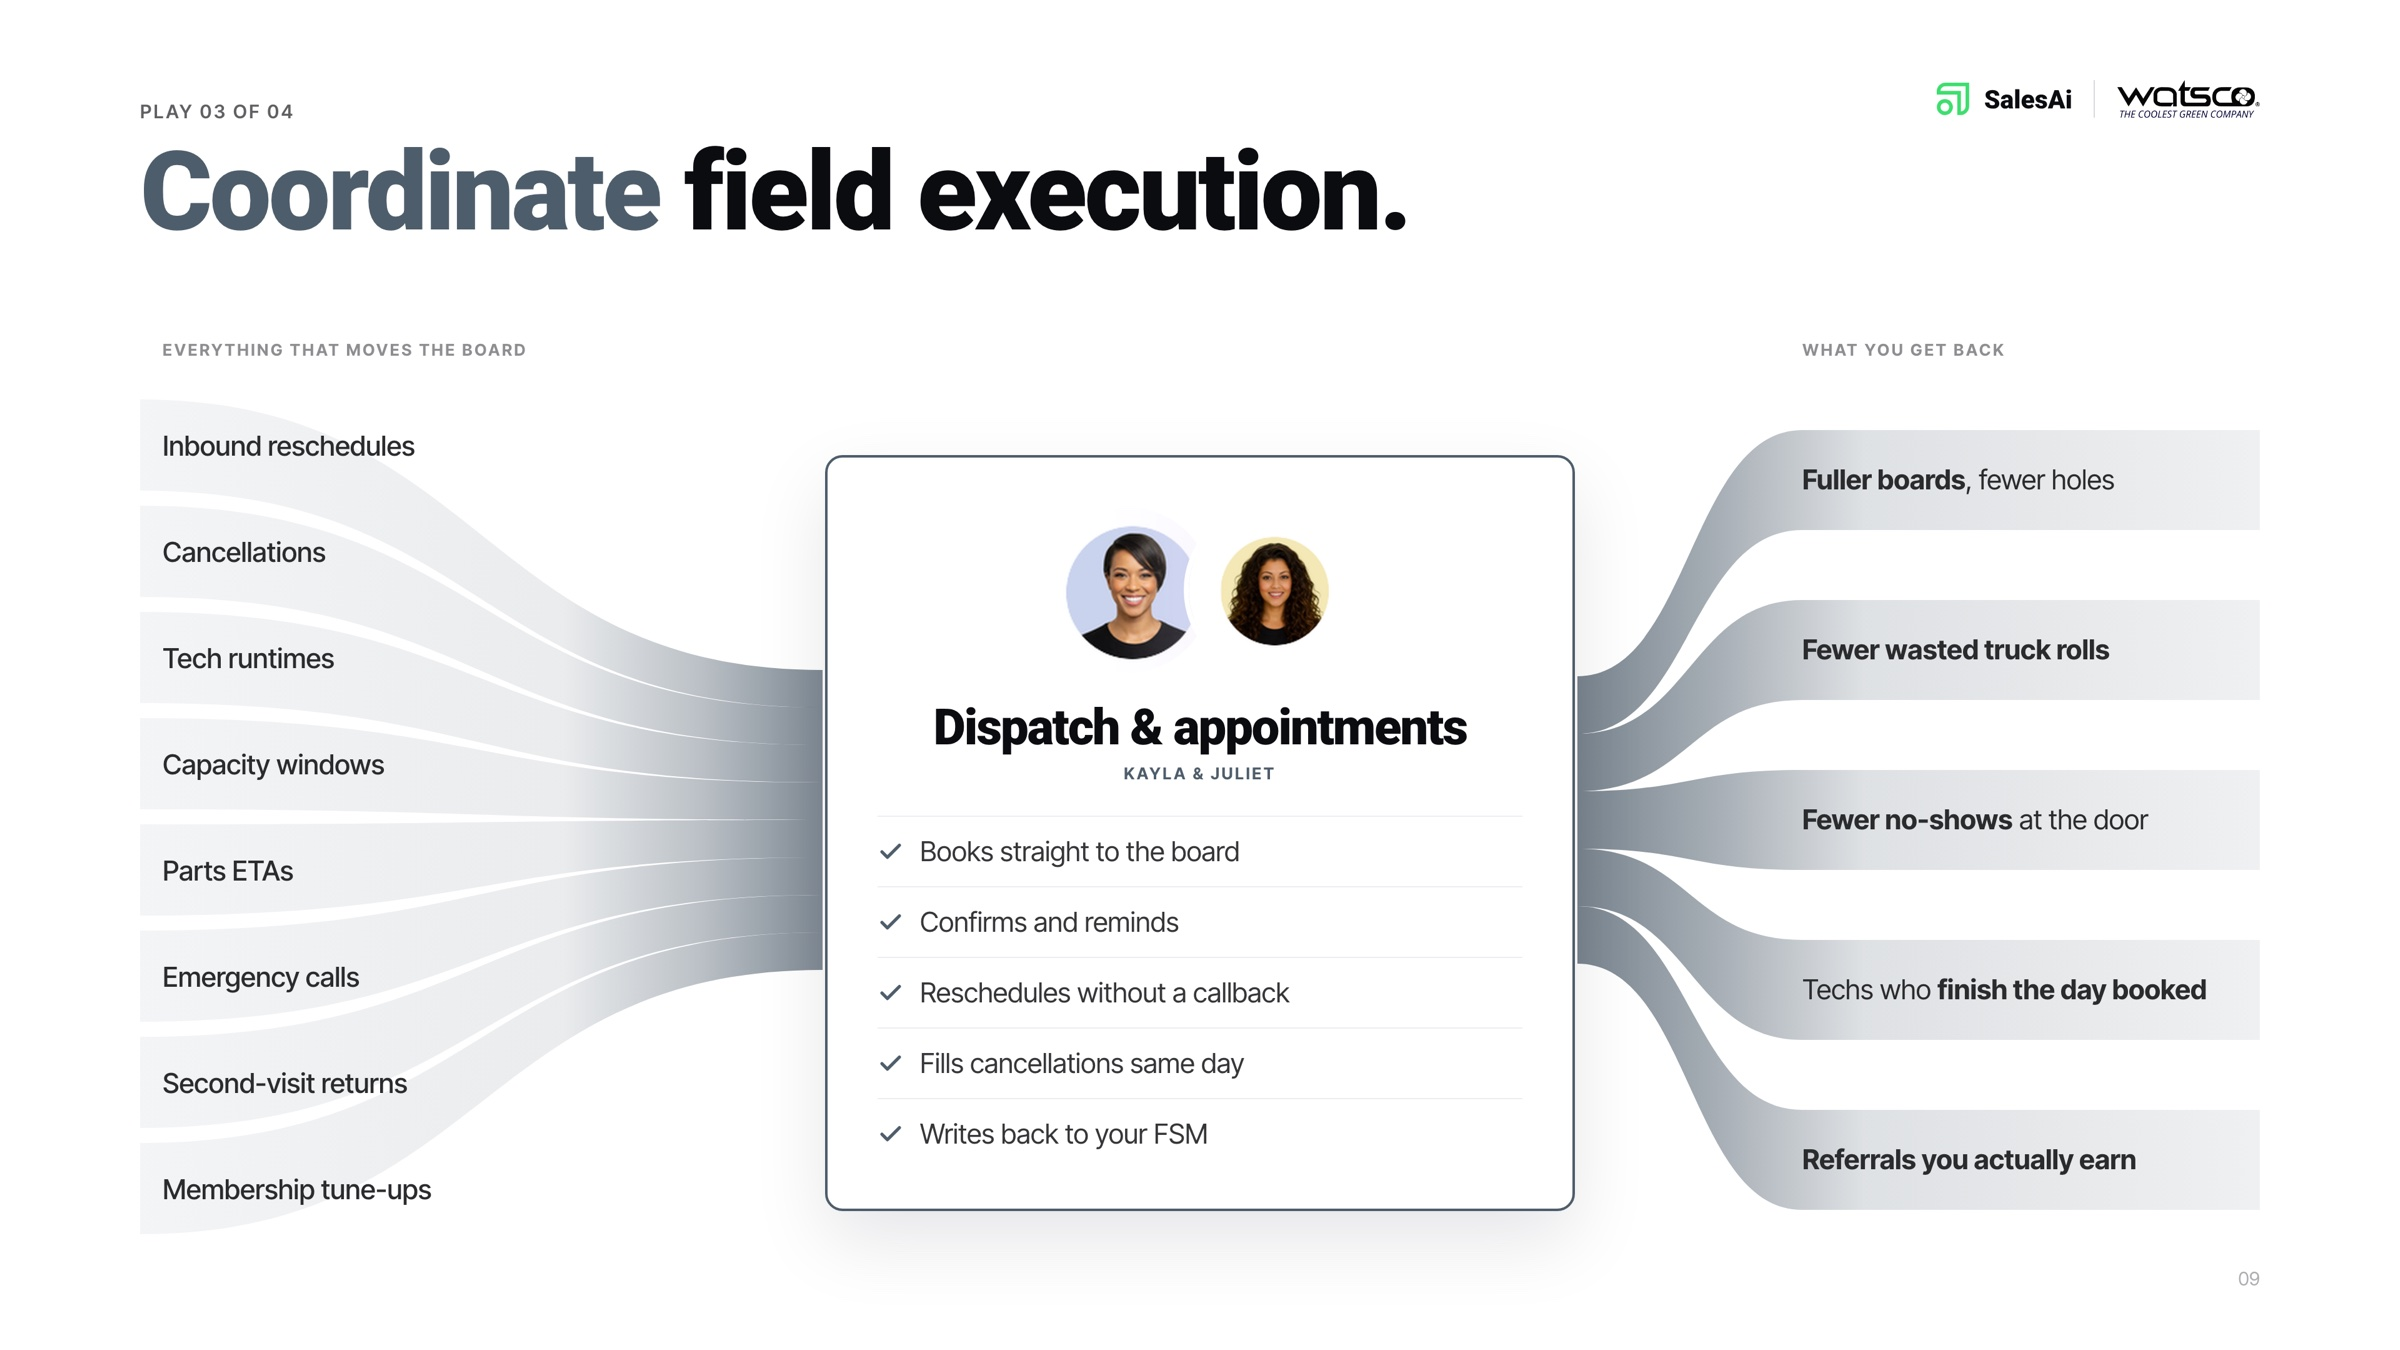
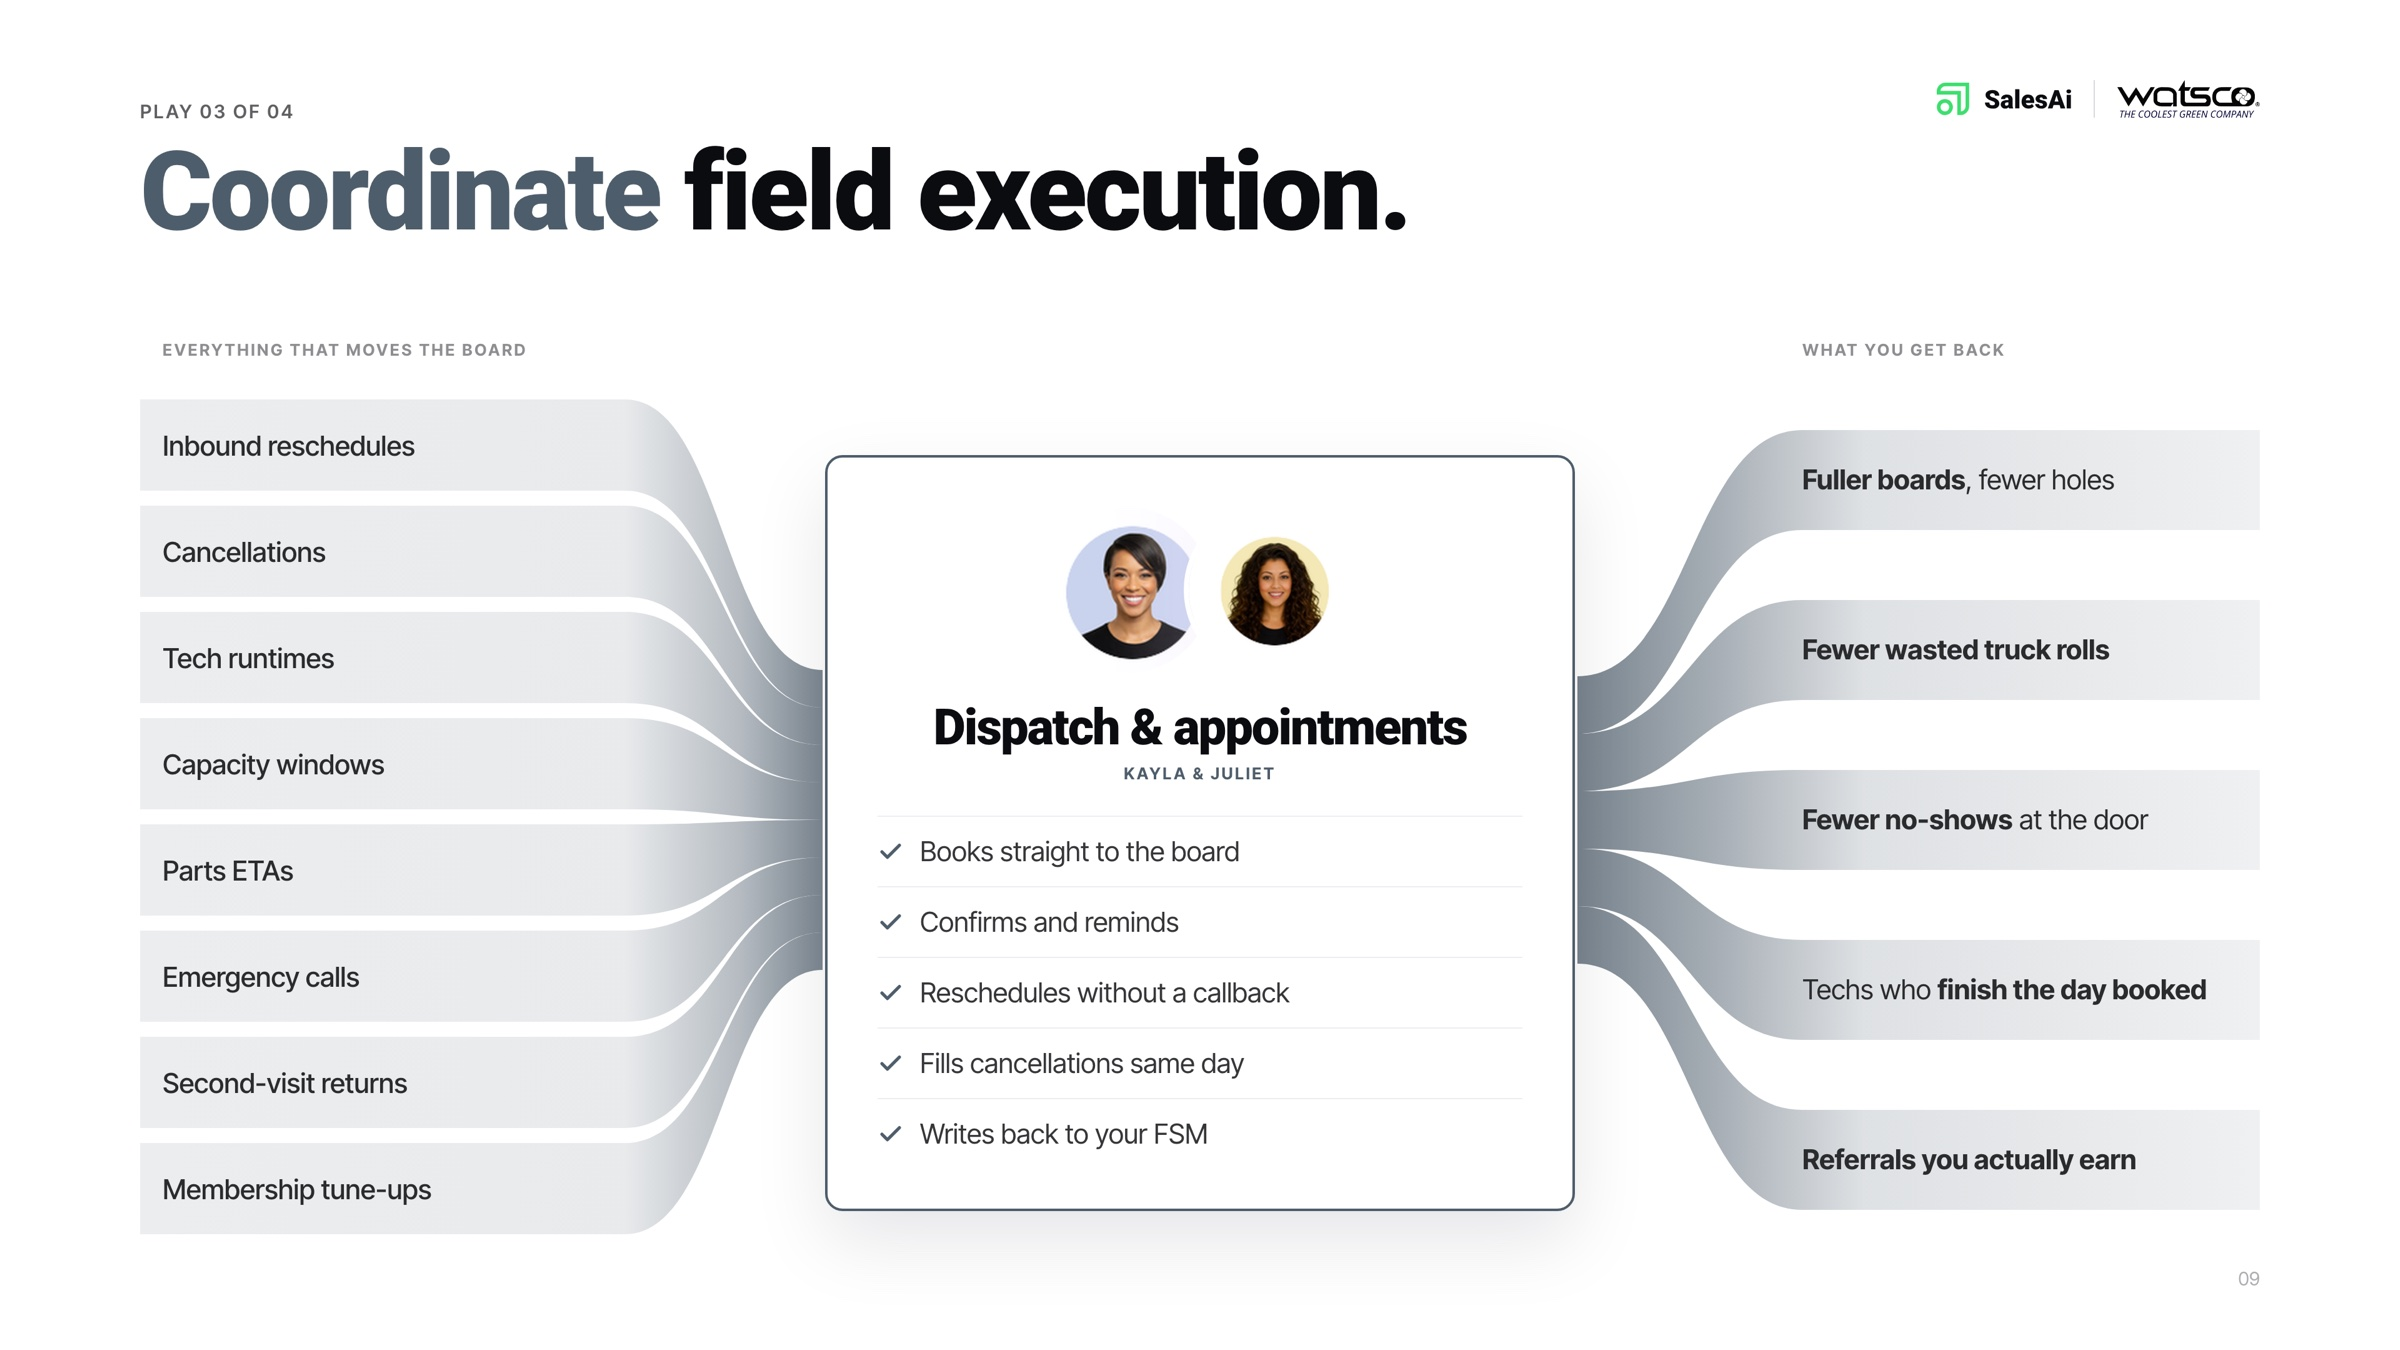
Plays: inbound ribbons flatten under the source labels
Curve now begins at the right edge of the source column, mirroring
the outbound side. Gradient holds an even tone across both flat
bands and ramps only through the curve.

Claude-Session: https://claude.ai/code/session_01541ZQJSzd5g49QbE64sNeN

Changed region(s): [[0.25, 0.28, 0.3438, 0.56], [0.25, 0.6533, 0.3438, 0.9022], [0.25, 0.5911, 0.3125, 0.6222]]

diff --git a/watsco-dealer-deck.html b/watsco-dealer-deck.html
@@ -47,10 +47,10 @@ footer p { max-width:1100px; margin:0 auto; font-size:13px; line-height:1.6; col
 <figure><img src="watsco-deck/04.jpg?v=5ed5ec9afa" width="2400" height="1350" alt="Slide 04 — The question" loading="lazy" decoding="async"><figcaption><span class="n">04</span>The question</figcaption></figure>
 <figure><img src="watsco-deck/05.jpg?v=6aecb81ecc" width="2400" height="1350" alt="Slide 05 — The product" loading="lazy" decoding="async"><figcaption><span class="n">05</span>The product</figcaption></figure>
 <figure><img src="watsco-deck/06.jpg?v=4ed54e935d" width="2400" height="1350" alt="Slide 06 — How it fits together" loading="lazy" decoding="async"><figcaption><span class="n">06</span>How it fits together</figcaption></figure>
-<figure><img src="watsco-deck/07.jpg?v=e17e06c904" width="2400" height="1350" alt="Slide 07 — Play 01 · Capture demand" loading="lazy" decoding="async"><figcaption><span class="n">07</span>Play 01 · Capture demand</figcaption></figure>
-<figure><img src="watsco-deck/08.jpg?v=09727da246" width="2400" height="1350" alt="Slide 08 — Play 02 · Convert to replacement" loading="lazy" decoding="async"><figcaption><span class="n">08</span>Play 02 · Convert to replacement</figcaption></figure>
-<figure><img src="watsco-deck/09.jpg?v=9ab53ff533" width="2400" height="1350" alt="Slide 09 — Play 03 · Coordinate execution" loading="lazy" decoding="async"><figcaption><span class="n">09</span>Play 03 · Coordinate execution</figcaption></figure>
-<figure><img src="watsco-deck/10.jpg?v=5d628f03a8" width="2400" height="1350" alt="Slide 10 — Play 04 · Care after the sale" loading="lazy" decoding="async"><figcaption><span class="n">10</span>Play 04 · Care after the sale</figcaption></figure>
+<figure><img src="watsco-deck/07.jpg?v=059adf700e" width="2400" height="1350" alt="Slide 07 — Play 01 · Capture demand" loading="lazy" decoding="async"><figcaption><span class="n">07</span>Play 01 · Capture demand</figcaption></figure>
+<figure><img src="watsco-deck/08.jpg?v=b59786e5dd" width="2400" height="1350" alt="Slide 08 — Play 02 · Convert to replacement" loading="lazy" decoding="async"><figcaption><span class="n">08</span>Play 02 · Convert to replacement</figcaption></figure>
+<figure><img src="watsco-deck/09.jpg?v=ffba60d0a7" width="2400" height="1350" alt="Slide 09 — Play 03 · Coordinate execution" loading="lazy" decoding="async"><figcaption><span class="n">09</span>Play 03 · Coordinate execution</figcaption></figure>
+<figure><img src="watsco-deck/10.jpg?v=fa9eec9f46" width="2400" height="1350" alt="Slide 10 — Play 04 · Care after the sale" loading="lazy" decoding="async"><figcaption><span class="n">10</span>Play 04 · Care after the sale</figcaption></figure>
 <figure><img src="watsco-deck/11.jpg?v=0dd8a9b20b" width="2400" height="1350" alt="Slide 11 — What compounds" loading="lazy" decoding="async"><figcaption><span class="n">11</span>What compounds</figcaption></figure>
 <figure><img src="watsco-deck/12.jpg?v=47e6ed5370" width="2400" height="1350" alt="Slide 12 — Proof" loading="lazy" decoding="async"><figcaption><span class="n">12</span>Proof</figcaption></figure>
 <figure><img src="watsco-deck/13.jpg?v=84be0091f0" width="2400" height="1350" alt="Slide 13 — Enterprise-grade security" loading="lazy" decoding="async"><figcaption><span class="n">13</span>Enterprise-grade security</figcaption></figure>
